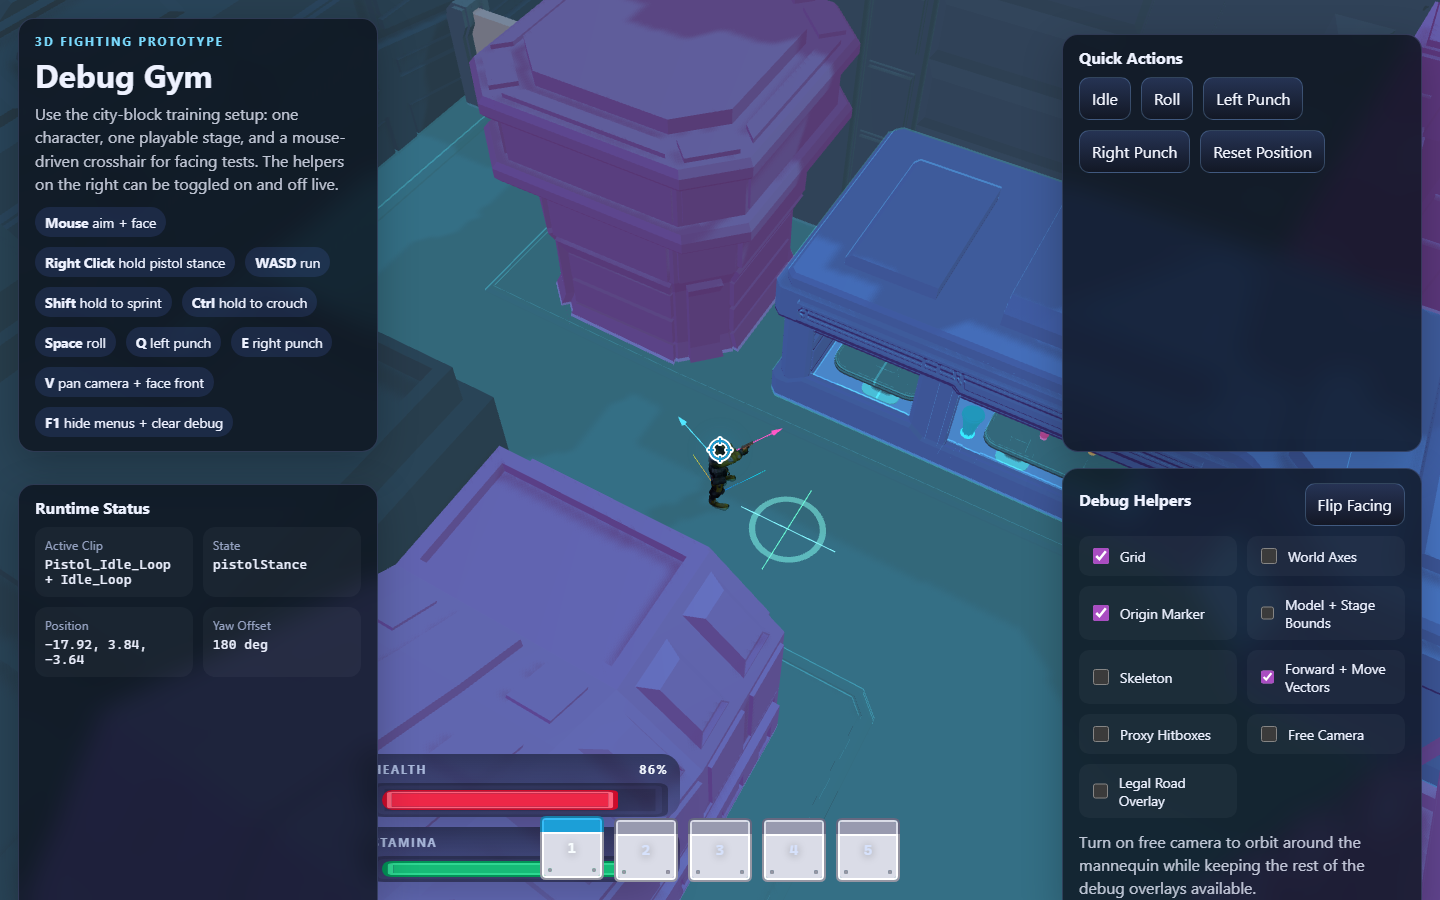
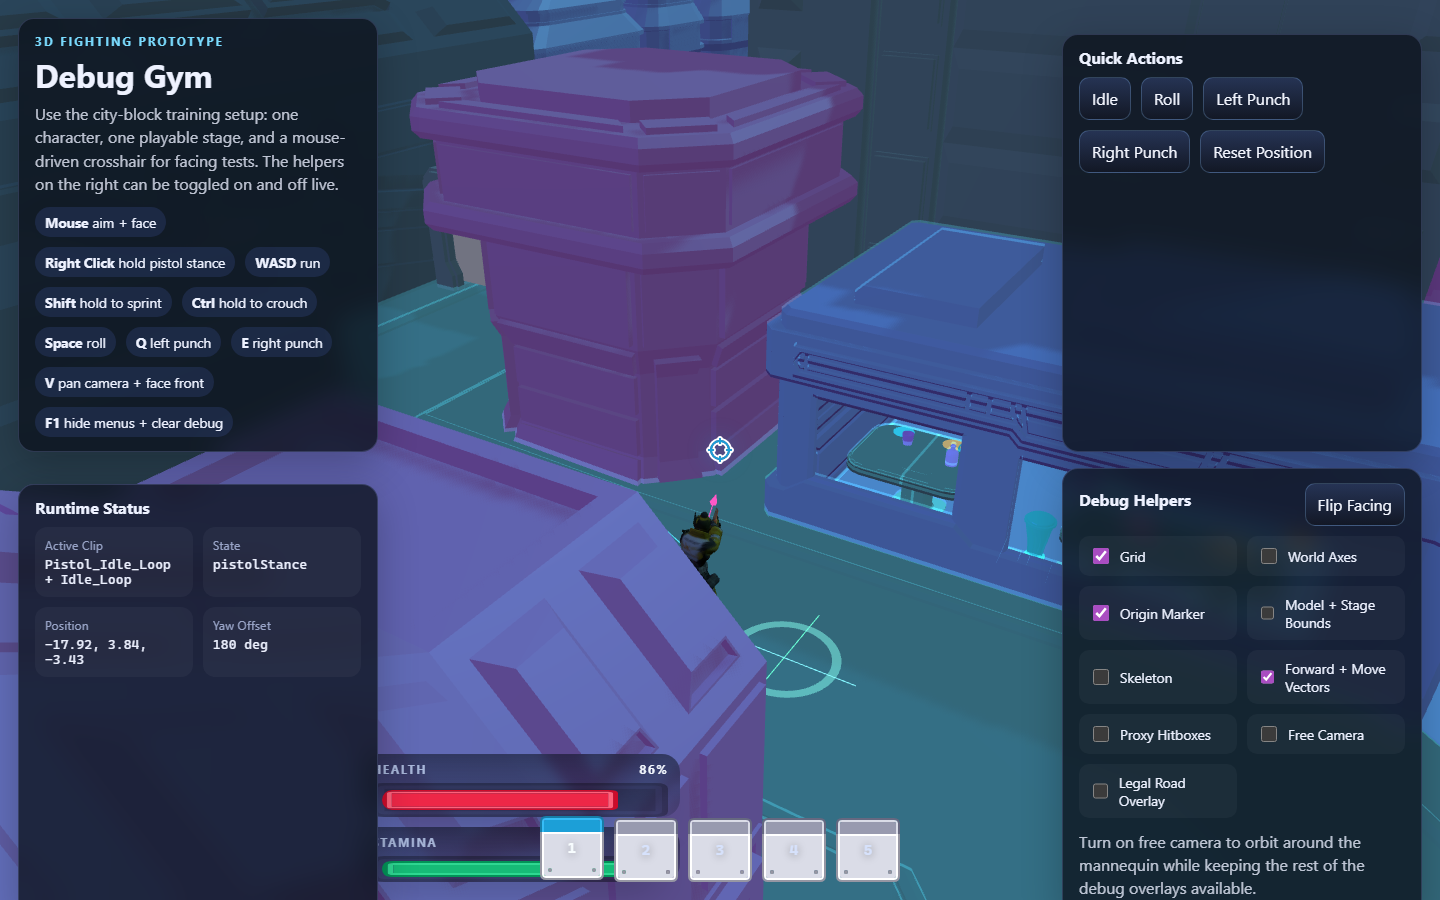
adjusted crosshair placement when camera shifts

diff --git a/src/main.js b/src/main.js
@@ -48,6 +48,7 @@ const CONFIG = {
   cameraYawPanLerp: 8.5,
   cameraYawSettleToleranceDeg: 2.5,
   cameraTargetHeight: 1.35,
+  pistolCameraTargetForwardOffset: 2.4,
   turnLerp: 10.5,
   baseYawOffset: Math.PI,
   aimDirectionDeadZoneDeg: 22.5,
@@ -551,8 +552,7 @@ function snapCameraToHero(hero) {
 
   syncCameraYawState(0);
   const camera = getActiveCameraSettings();
-  runtime.cameraTarget.copy(hero.root.position);
-  runtime.cameraTarget.y += camera.targetHeight;
+  setCameraTargetFromHero(runtime.cameraTarget, hero, camera);
   runtime.cameraLookTarget.copy(runtime.cameraTarget);
   const preferredView = resolvePreferredCameraView(runtime.cameraTarget, camera);
   runtime.camera.position.copy(preferredView.position);
@@ -569,6 +569,30 @@ function snapCameraToHero(hero) {
 
 function getPlayerFrontYawForCameraYaw(cameraYawDeg) {
   return THREE.MathUtils.degToRad(normalizeYawDegrees(cameraYawDeg + 180));
+}
+
+function setDirectionFromYaw(yaw, target = tempVector) {
+  target.set(Math.sin(yaw), 0, Math.cos(yaw));
+  if (target.lengthSq() < 0.0001) {
+    target.set(0, 0, 1);
+  } else {
+    target.normalize();
+  }
+  return target;
+}
+
+function setCameraTargetFromHero(target, hero, camera = getActiveCameraSettings()) {
+  target.copy(hero.root.position);
+  target.y += camera.targetHeight;
+
+  if (runtime.input.pistolStance) {
+    target.addScaledVector(
+      setDirectionFromYaw(hero.root.rotation.y),
+      CONFIG.pistolCameraTargetForwardOffset,
+    );
+  }
+
+  return target;
 }
 
 function shouldSuppressAimYawForCameraPan() {
@@ -3711,14 +3735,7 @@ function resetAimPointFromHero(hero) {
     return;
   }
 
-  tempVector.set(Math.sin(hero.root.rotation.y), 0, Math.cos(hero.root.rotation.y));
-  if (tempVector.lengthSq() < 0.0001) {
-    tempVector.set(0, 0, 1);
-  } else {
-    tempVector.normalize();
-  }
-
-  runtime.aimPoint.copy(hero.root.position).addScaledVector(tempVector, 4);
+  runtime.aimPoint.copy(hero.root.position).addScaledVector(setDirectionFromYaw(hero.root.rotation.y), 4);
   runtime.aimPoint.y = hero.root.position.y + (runtime.world?.stageData?.grounding.aimHeightOffset ?? 0.02);
 }
 
@@ -3972,8 +3989,7 @@ function updateCamera(dt) {
   const hero = runtime.hero;
   syncCameraYawState(dt);
   const camera = getActiveCameraSettings();
-  runtime.cameraTarget.copy(hero.root.position);
-  runtime.cameraTarget.y += camera.targetHeight;
+  setCameraTargetFromHero(runtime.cameraTarget, hero, camera);
 
   if (runtime.debug.orbit) {
     runtime.controls.enabled = true;

diff --git a/progress.md b/progress.md
@@ -232,3 +232,11 @@ Original prompt: inspect the repo and understands how the assets are being lever
     - `node scripts/city-stage-probe.mjs http://127.0.0.1:4173/`
     - `node scripts/hud-probe.mjs http://127.0.0.1:4173/`
   - Retried the shared skill client at `C:\Users\leonl\.codex\skills\develop-web-game\scripts\web_game_playwright_client.js`; it still fails here with `ERR_MODULE_NOT_FOUND` for `playwright`, so the repo-local probes remain the reliable verification path in this environment.
+- Pistol-stance crosshair framing tweak:
+  - Adjusted `src/main.js` so the camera target moves `2.4` world units forward along the hero facing direction while pistol stance is active, instead of always centering the camera on the hero root.
+  - This keeps the crosshair visually centered in the viewport while making screen center correspond to a point ahead in the scene rather than landing directly on the hero's head during RMB stance entry.
+  - Refactored the shared camera target computation into `setCameraTargetFromHero()` and reused the same yaw-to-direction helper in the existing `resetAimPointFromHero()` path to keep the stance framing logic consistent.
+  - Expanded `scripts/city-stage-probe.mjs` to assert that entering pistol stance pushes the camera target ahead of the hero in world space, which protects the new over-the-shoulder framing from regressing silently.
+  - Verified with:
+    - `npm.cmd run build`
+    - `node scripts/city-stage-probe.mjs http://localhost:5173/`
